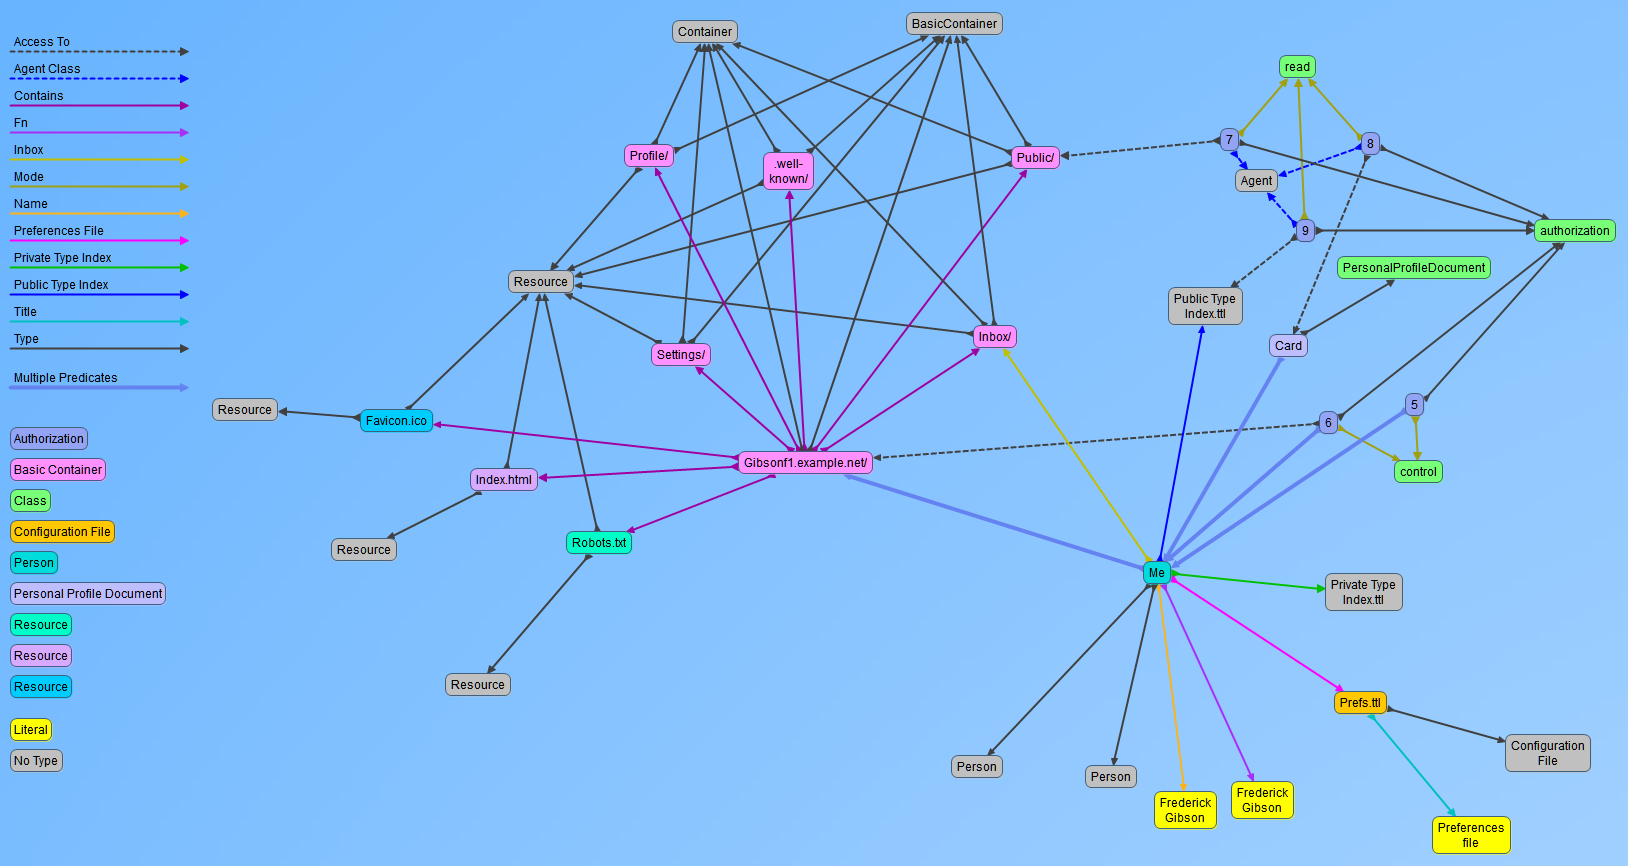
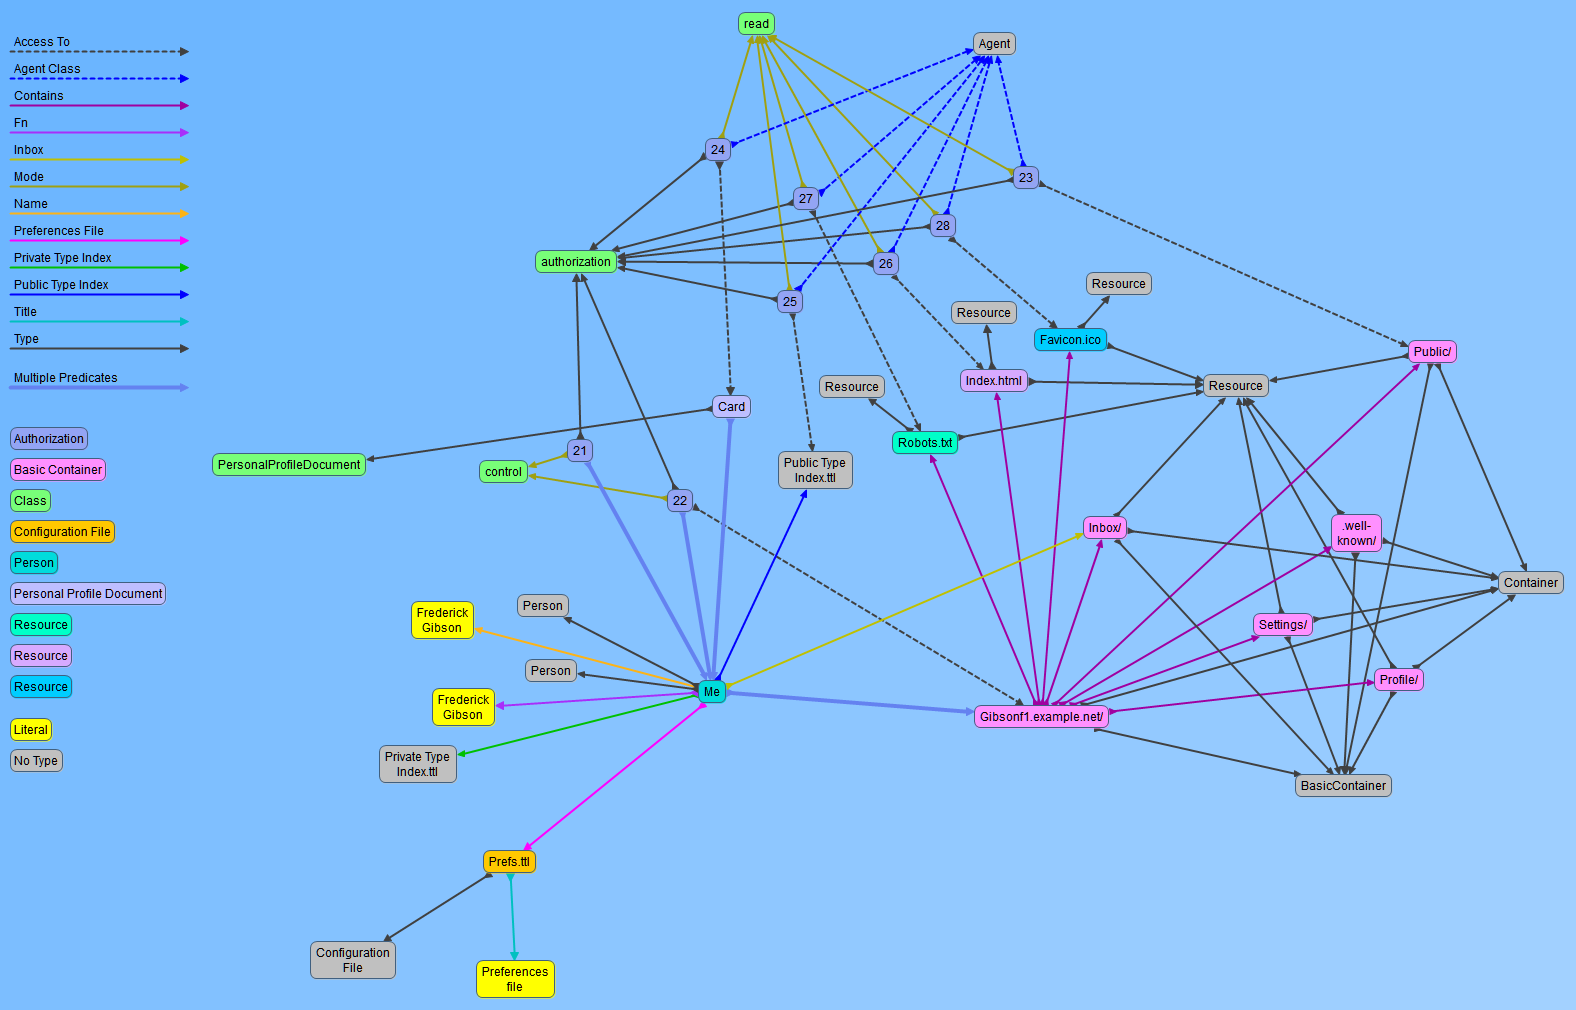
adding missing public ACLs

diff --git a/README.md b/README.md
@@ -87,7 +87,7 @@ Create a new webid:
 
 Creating Profile...
 Creating WebID...
-Creating WebID storage...
+Creating WebID Account...
 Adding Web Access Control ACLs...
 ;->"<http://gibsonf1.example.com/profile/card#me>"
 ```
